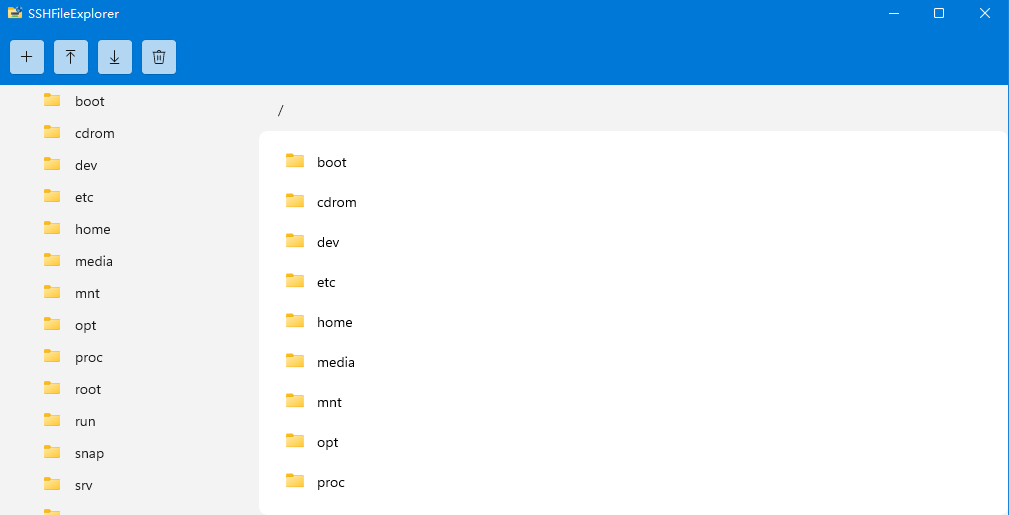
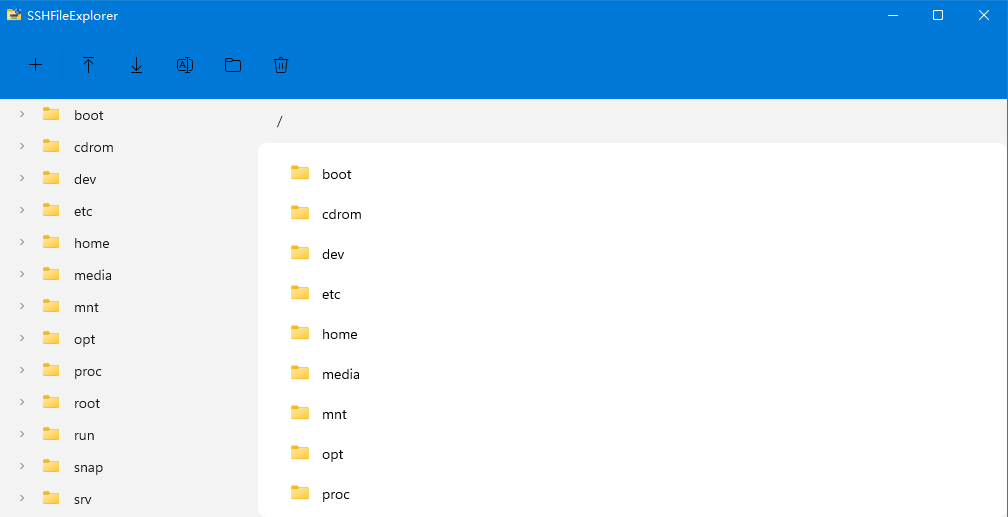
docs: updated README.md

diff --git a/docs/README.md b/docs/README.md
@@ -20,13 +20,15 @@
 
 3.私钥连接
 
+4.保存密码
+
 ## 软件特性
 
 1.面包屑导航
 
 2.自适应图标
 
-3.独立文件夹列表
+3.树形文件夹列表
 
 ## 软件截图
 
